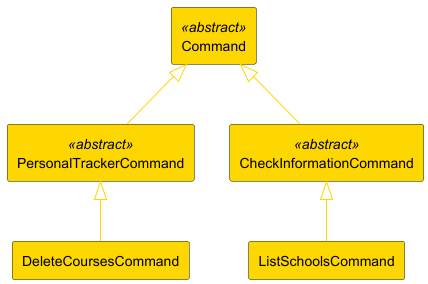
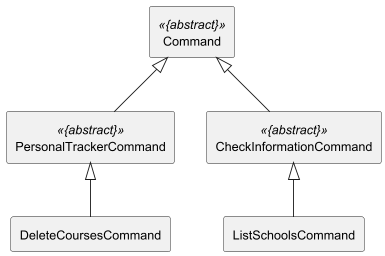
Fix arrow dynamics

diff --git a/docs/DeveloperGuide.md b/docs/DeveloperGuide.md
@@ -106,7 +106,7 @@ and Oceania.
 * Considered placing all the class methods inside the `execute` method but kept SLAP in mind to ensure 
   readability.
 
-#### Sequence Diagram on PlantUML:
+#### Sequence Diagram:
 ![List School Command Sequence Diagram](images/ListSchoolsCommand.png)
 
 ### 2. Filter Courses Command
@@ -131,7 +131,7 @@ that NUS course is suitable to be mapped overseas in South East Asia and Oceania
 * There are also assertions and logging in place for error handling.
 * Line Separator is used to ensure readability and ease of use for users.
 
-#### Sequence Diagram on PlantUML:
+#### Sequence Diagram:
 ![Filter Courses Sequence Diagram](images/FilterCoursesCommand.png)
 
 ### 3. Obtain Partner University Email and Contact Number Command
@@ -166,7 +166,7 @@ exchange opportunities.
 * Considered placing all the class methods inside the `execute` method but kept SLAP in mind to ensure
   readability.
 
-#### Sequence Diagram on PlantUML:
+#### Sequence Diagram:
 ![Filter Courses Sequence Diagram](images/ObtainContactsCommand.png)
 
 ### 4. List University Courses Command
@@ -198,7 +198,7 @@ contains the list of courses.
   For example, `getPuName()` focuses on extracting the university name from user input and `findUniversityName()`
   focuses on searching the university in the data set.
 
-#### Sequence on PlantUML:
+#### Sequence Diagram:
 ![ListUniCourseCommand sequence diagram](images/ListUniCoursesCommand.png)
 
 {Describe the design and implementation of the product. Use UML diagrams and short code snippets where applicable.}
@@ -230,7 +230,7 @@ and South-East Asian universities. This command hence helps the users to keep tr
 * Throughout the code, exceptions, assertions and logging are in place for better error handling. 
 * Line Separator is used to ensure readability and ease of use for users.
 
-#### Sequence Diagram on PlantUML
+#### Sequence Diagram:
 ![Add Courses Sequence Diagram](images/AddCoursesCommand.png)
 
 ### 6. Delete Courses Command
@@ -253,7 +253,7 @@ This helps the users to keep track of their most recent course mapping plans, an
 * Throughout the code, exceptions, assertions and logging are in place for better error handling.
 * Line Separator is used to ensure readability and ease of use for users.
 
-#### Sequence Diagram on PlantUML
+#### Sequence Diagram:
 ![Delete Courses Sequence Diagram](images/DeleteCoursesCommand.png)
 
 ### 7. List Commands Command
@@ -276,7 +276,7 @@ The `ListCommandsCommand` provides users with a comprehensive list of all availa
 * **Dynamic Command List**: Considered dynamically generating the command list from all command classes in the codebase to avoid manually updating this list, but opted for simplicity to prevent added complexity.
 * **Help Command Integration**: Considered integrating `ListCommandsCommand` with the `HelpCommand` to provide a one-stop command for help-related requests, but separating them ensures clarity and keeps each command focused.
 
-#### Sequence Diagram on PlantUML:
+#### Sequence Diagram:
 ![List Commands Command Sequence Diagram](../uml-images/ListCommandsCommand.png)
 
 ### 8. ListPersonalTrackerCommand
@@ -323,7 +323,7 @@ Mapped Modules:
 -----------------------------------------------------
 ```
 
-#### Sequence Diagram on PlantUML:
+#### Sequence Diagram:
 ![List Personal Tracker Command Sequence Diagram](../uml-images/ListPersonalTrackerCommand.png)
 
 ### 9. Help Command
@@ -355,7 +355,7 @@ This allows users to navigate this program easily and effectively.
   - However, since the condition is a single variable and not complex conditions, it will be cleaner and clearer to use
   `switch` statements
 
-#### Sequence diagram on PlantUML
+#### Sequence Diagram:
 - Represents when `execute()` method is called
   ![Help Command sequence diagram](images/HelpCommand.png)
 
